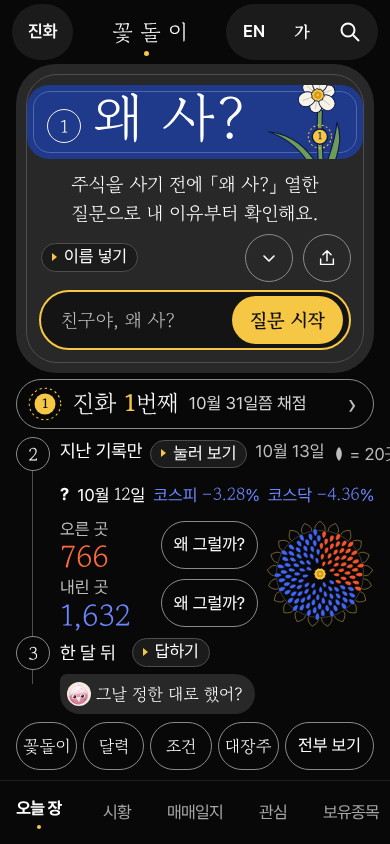
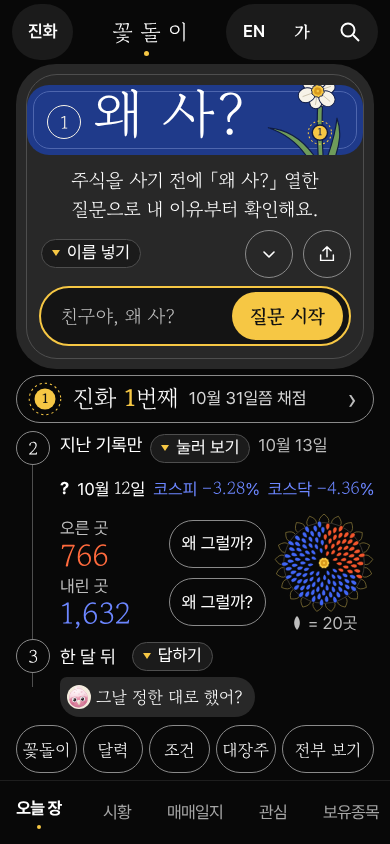
친근 석 장 끝 — 말 거는 · 둥글고 따뜻 · 처음 온 친구
Claude-Session: https://claude.ai/code/session_01NCpyR4ELc71hqitZJpUS2Z

diff --git a/docs/design/kakao-2026-10-19/mock/r3.html b/docs/design/kakao-2026-10-19/mock/r3.html
@@ -361,6 +361,11 @@ body{padding-bottom:80px}
   .sun{width:86px;height:86px}
   .plate .head{height:70px}
 }
+.read .news h2.lbl .sub{white-space:nowrap}
+@media (max-width:359px){
+  .read .news h2.lbl>span:first-child{display:flex;flex-wrap:wrap;align-items:center;row-gap:2px}
+  .read .news h2.lbl .sub{flex-basis:auto;margin-left:0}
+}
 </style>
 </head>
 <body>

diff --git a/docs/design/kakao-2026-10-19/mock/r3.why.md b/docs/design/kakao-2026-10-19/mock/r3.why.md
@@ -1,0 +1,20 @@
+# r3 · 「처음 온 친구」
+
+한 줄 생각: n1 그림(목판화 수선화 · 해바라기 씨앗 120알 · 하는 일 셋)은 그대로 두고, 길만 바꿨다. 처음 온 친구가 위에서 아래로 「이름 넣기 → 눌러 보기 → 답하기」 세 마디만 읽으면 여기서 할 일을 안다. 찾기 칸은 맨 아래 고정 줄에서 ① 「왜 사?」 판 안으로 올라왔고, 단추는 「왜?」 대신 「질문 시작」이라 누르면 무슨 일이 생기는지 말한다.
+
+## 왜? 다섯
+1. 왜 ① ② ③ 마다 짧은 안내를 붙였나? 처음 온 친구는 「여기서 뭘 하지?」부터 묻는다. 안내는 모두 3 ~ 4자 동사(이름 넣기 · 눌러 보기 · 답하기)다. 앞에 금빛 아래 화살표를 달아 바로 밑에 누를 곳이 있음을 가리킨다.
+2. 왜 찾기 칸을 ① 안으로 올렸나? n1 에서는 ① 「왜 사?」는 맨 위, 이름 넣는 칸은 맨 아래에 있었다. 둘 사이에 씨앗 판이 끼어 있었다. 이제 「왜 사?」 바로 밑에 금빛 테 칸이 있다. 높이는 60px, 단추는 48px 이다. 첫 화면에서 가장 크고 또렷한 누를 곳이다. 맨 아래 고정 줄을 걷으니 n1 에서 그 줄 뒤에 가려졌던 「전부 보기」도 보인다.
+3. 왜 글자를 더하지 않고 바꿨나? 글자 한도는 105자다. n1 이 이미 105자였다. 진화 칸 둘째 줄 「「끝낸 수가 는다」 · 사장님 확인으로만」(14자)은 처음 온 친구에게 낯선 말이다. 그래서 진화 칸 이름표(aria-label)로 옮겼다. 진화 칸을 누르면 그 뜻이 나온다. 그 14자를 안내 11자와 「질문 시작」으로 바꿨다. 「왜?」는 1자, 「질문 시작」은 4자다. 합이 다시 105자다.
+4. 왜 꽃돌이 칸과 「전부 보기」를 한 줄로 묶었나? ③ 안내 줄이 한 줄 늘었다. 그만큼 아래가 밀렸다. 알약 다섯을 한 줄에 두니 모두 아래 단추 위 한 화면에 들어온다(맨 아래 773 · 한도 780). 씨앗 잣대 「= 20곳」은 해바라기 바로 밑으로 옮겨 ② 머리 줄에 안내 자리를 냈다.
+5. 본질: 사기 전에 한 번 멈추게 하는 곳. 처음 온 친구에게 첫 할 일은 「사라」가 아니라 「이름 넣고 왜 사? 질문부터」다. ② 「눌러 보기」는 「왜 그럴까?」 단추로 이끌고, ③ 「답하기」는 한 달 뒤 「그날 정한 대로 했어?」에 답하게 한다. 세 안내 모두 멈춤으로 이끈다.
+
+## 그럴까?
+「질문 시작」이 너무 커서 「빨리 눌러 끝내라」는 부추김처럼 읽히지 않을까? 그래서 단추에는 「사기」 · 「바로」 같은 말을 쓰지 않았다. 누르면 열한 질문이 시작될 뿐이다. 반짝임 · 폭죽 · 연속 접속 보상도 없다.
+
+## 그대로 둔 것 · 옮긴 것
+그대로 둔 것: 그림(수선화 판화 · 씨앗 120알 · 다홍 38 : 남빛 82) · 본질 세 줄 · 숫자 · 날짜(10월 12일 · 10월 13일 · 10월 31일쯤) · 이름 꽃돌이 · 「왜 그럴까?」 단추 둘 · 표시(data-w · data-ess · data-say · data-num · data-fact · data-path="q1" · jhBtn) · 아래 단추 다섯 · 찾기 칸 글 「친구야, 왜 사?」(안내 글로 둠).
+옮긴 것: 찾기 칸(맨 아래 → ① 안) · 진화 둘째 줄(화면 → 이름표) · 「= 20곳」(② 머리 → 해바라기 밑) · 「전부 보기」(따로 한 줄 → 꽃돌이 칸 옆 알약, 펼치면 목록은 그 밑에 넓게).
+
+## 검사
+check_white --mock: 통과 22 · 실패 2(흰 바탕 · 글 #16181D — 어두운 카톡 판이라 걸려도 되는 두 줄뿐) · 글자 105자(한도 105) · 390 × 844 다섯 칸이 한 화면(찾기 358 · 오늘 513 · 꽃돌이 칸과 전부 보기 773 < 780) · 320 × 568 본질 판과 찾기 칸이 한 화면 · 옆 넘침 0.
